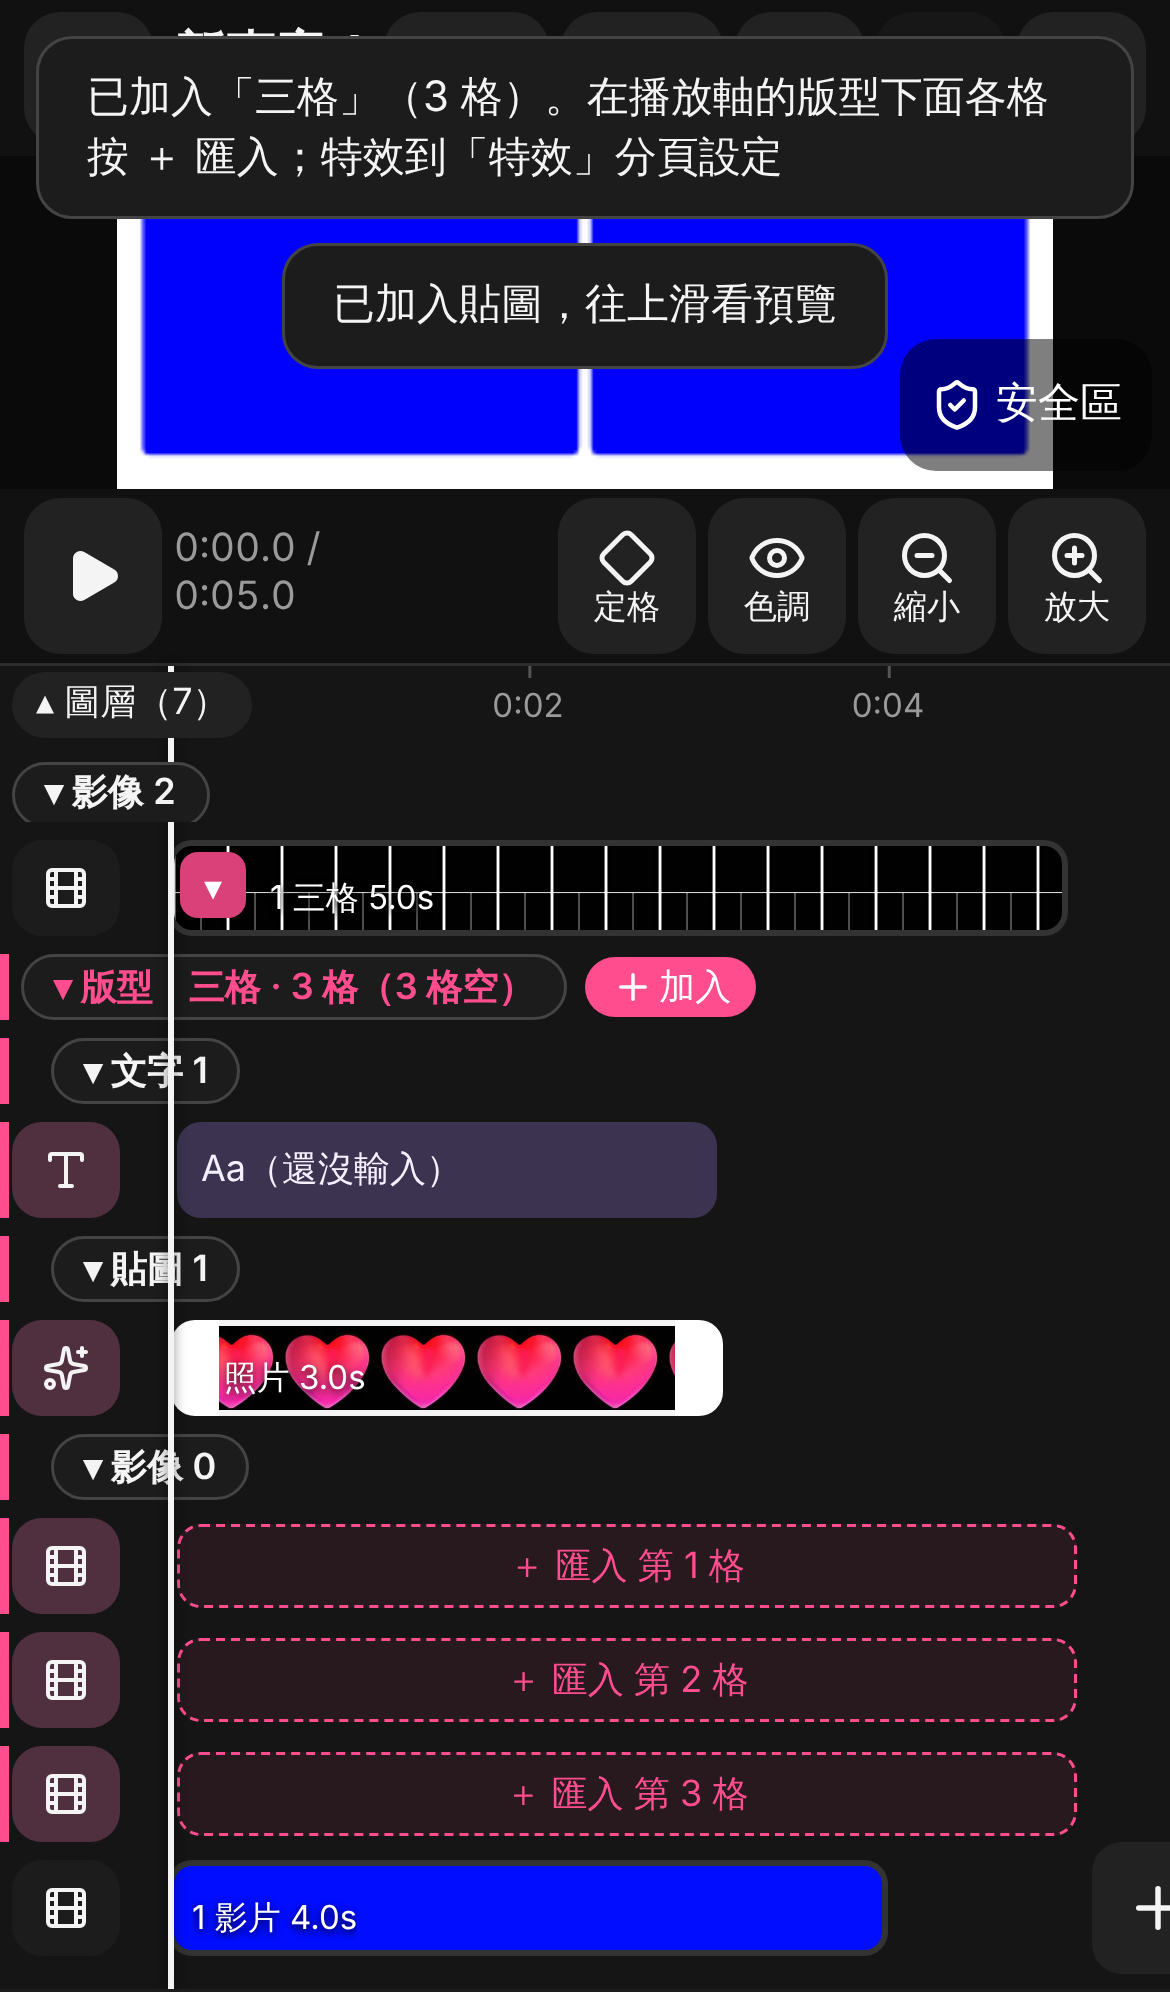
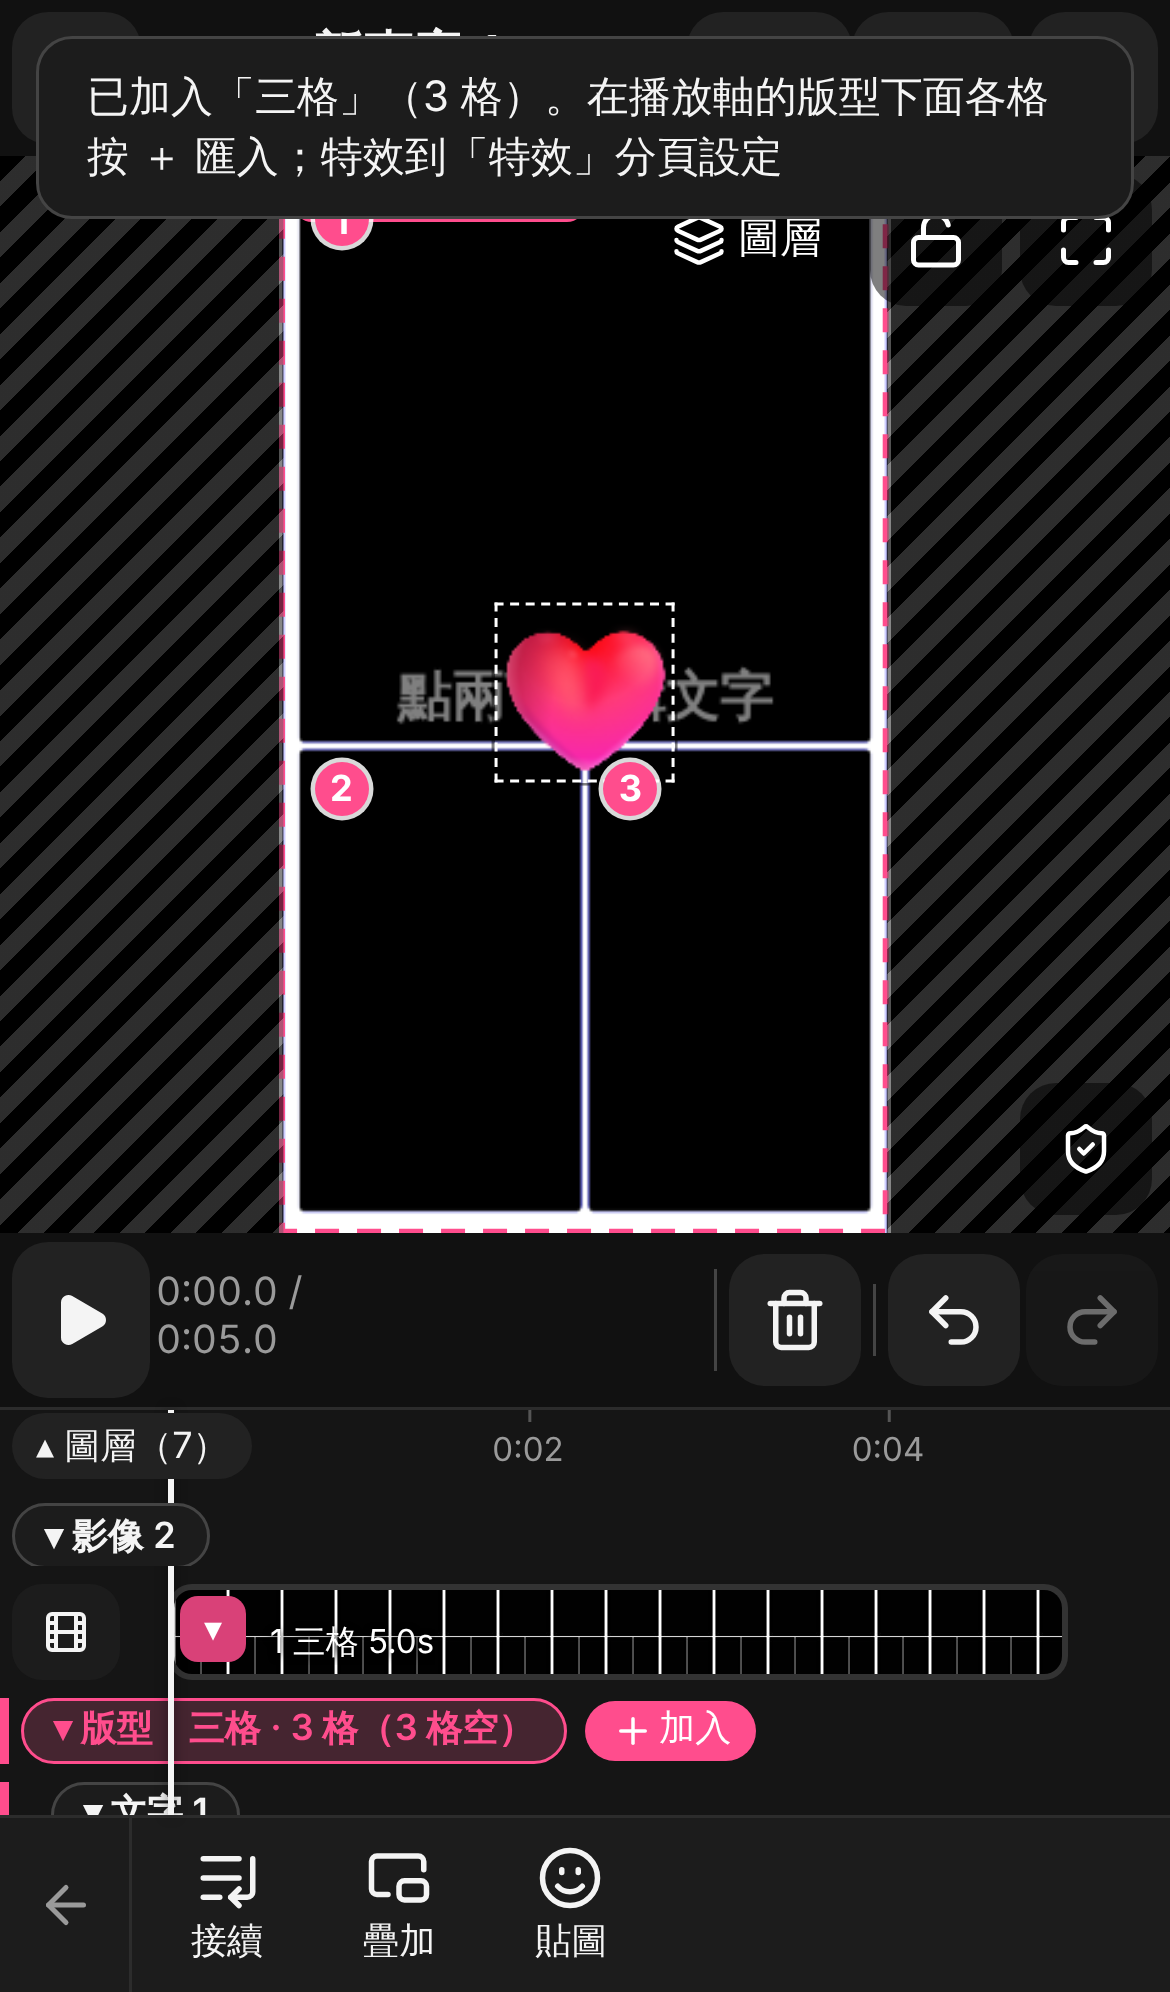
Z8: 〔加進版型〕作用在選到的文字／音樂（加進、移出），不再是「之後新增」的開關

diff --git a/src/app/editor/AddToGroupToggle.tsx b/src/app/editor/AddToGroupToggle.tsx
@@ -1,61 +1,42 @@
-import { Group } from 'lucide-react';
+import { Group, Ungroup } from 'lucide-react';
 import { ToolButton } from './tabs/shared';
+import { attachToGroup, detachFromGroup, groupToJoin } from '../../store/actions';
 import { useProjectStore } from '../../store/projectStore';
-import { useUI } from '../../store/uiStore';
+import { toast } from '../../store/uiStore';
 import { findItem } from '../../engine/timeline';
-import { frameOfGroup } from '../../engine/layoutTracks';
+import { isFrameItem } from '../../engine/layoutTracks';
 
 /**
- * 選到版型（或版型裡的東西）時，文字、素材（貼圖）、音訊分頁最上面的一列：新增的東西要不要加進這個版型。
- * 預設加進去（時間只能在版型範圍內、跟著整個版型動）；關掉＝照一般素材加在專案裡。
- * 用淡底的區塊跟下面的新增按鈕分開（不同層級的設定）。
+ * 文字、音訊工具列的〔加進版型〕：作用在目前選到的文字（音樂／音效）。
+ * 還不在版型裡：按了就加進這一段時間有的版型（跟著版型動、時間夾在版型範圍內）；已經在版型裡（按鈕亮著）：按了移出版型。
+ * 專案裡沒有版型時不顯示。
  */
-export function AddToGroupToggle({ what }: { what: string }) {
+export function GroupToggleButton({ testId }: { testId: string }) {
   const project = useProjectStore((s) => s.project);
   const selectedId = useProjectStore((s) => s.selectedId);
-  const off = useUI((s) => s.addToGroupOff);
-  const f = project && selectedId ? findItem(project, selectedId) : null;
-  const g = f?.item.group;
-  const frame = project && g ? frameOfGroup(project.tracks, g) : null;
-  if (!g || !frame) return null;
-  const on = !off;
-  return (
-    <div className="zone-soft" data-testid="add-to-group">
-      <button
-        role="switch"
-        aria-checked={on}
-        aria-label={`${what}加到版型「${frame.item.label ?? '版型'}」裡`}
-        className={`btn${on ? ' primary' : ''}`}
-        onClick={() => useUI.setState({ addToGroupOff: on })}
-      >
-        {on ? '✓ ' : ''}
-        {what}加到版型「{frame.item.label ?? '版型'}」裡
-      </button>
-    </div>
-  );
-}
-
-/**
- * 工具列上的〔加進版型〕開關：選到版型（或版型裡的東西）時才出現，跟〔新增〕放在一起——
- * 新增的文字、音樂要不要加進這個版型。開著＝強調色。
- */
-export function GroupToggleButton({ what }: { what: string }) {
-  const project = useProjectStore((s) => s.project);
-  const selectedId = useProjectStore((s) => s.selectedId);
-  const off = useUI((s) => s.addToGroupOff);
-  const f = project && selectedId ? findItem(project, selectedId) : null;
-  const g = f?.item.group;
-  const frame = project && g ? frameOfGroup(project.tracks, g) : null;
-  if (!g || !frame) return null;
-  const on = !off;
+  if (!project || !project.tracks.some((t) => t.items.some(isFrameItem))) return null;
+  const f = selectedId ? findItem(project, selectedId) : null;
+  const item = f && (f.item.type === 'text' || f.item.type === 'audio') ? f.item : null;
+  const inGroup = !!item && !!item.group && f!.track.groupRole === 'member';
+  const target = item ? groupToJoin(project, item) : null;
+  const dim = !item || (!inGroup && !target);
   return (
     <ToolButton
-      icon={Group}
-      label="加進版型"
-      ariaLabel={`${what}加到版型「${frame.item.label ?? '版型'}」裡`}
-      fill={on}
-      active={on}
-      onClick={() => useUI.setState({ addToGroupOff: on })}
+      icon={inGroup ? Ungroup : Group}
+      label={inGroup ? '移出版型' : '加進版型'}
+      testId={testId}
+      fill={inGroup}
+      active={inGroup}
+      dim={dim}
+      onClick={() => {
+        if (!item) return toast('先點一段文字或音樂');
+        if (inGroup) {
+          if (detachFromGroup(item.id)) toast('已移出版型');
+          return;
+        }
+        if (!target) return toast('這段的時間沒有版型');
+        if (attachToGroup(item.id, target)) toast('已加進版型');
+      }}
     />
   );
 }

diff --git a/src/store/actions.ts b/src/store/actions.ts
@@ -881,6 +881,72 @@ export function addGroupMember(group: string, item: Item): string | null {
   return item.id;
 }
 
+/**
+ * 這個物件可以加進哪個版型：時間有重疊的版型外框（沒有重疊＝不能加）；有好幾個取最上層（圖層順序最後）的那個。
+ * 已經在版型裡、或是格子上的色塊文字（onItem）回傳 null。
+ */
+export function groupToJoin(p: Project, item: Item): string | null {
+  if (item.group || (item.type === 'text' && item.onItem)) return null;
+  let found: string | null = null;
+  for (const t of p.tracks)
+    for (const x of t.items)
+      if (
+        isFrameItem(x) &&
+        x.group &&
+        x.start < item.start + item.duration - 1e-6 &&
+        item.start < x.start + x.duration - 1e-6
+      )
+        found = x.group;
+  return found;
+}
+
+/** 把選到的文字、貼圖、音效加進版型（搬到版型自己的成員軌，時間夾在版型範圍內，之後跟著版型動）。一步復原 */
+export function attachToGroup(itemId: string, group: string): boolean {
+  const p = store().project;
+  const f = p && findItem(p, itemId);
+  const span = p && groupSpan(p, group);
+  if (!p || !f || !span || f.item.group) return false;
+  const kind = trackKindOf(f.item, p.assets);
+  store().apply((d) => {
+    const from = d.tracks[f.trackIndex]!;
+    const idx = from.items.findIndex((x) => x.id === itemId);
+    if (idx < 0) return;
+    const it = from.items.splice(idx, 1)[0] as Item;
+    const start = Math.min(Math.max(it.start, span.start), Math.max(span.end - 0.2, span.start));
+    it.start = start;
+    it.duration = Math.max(Math.min(it.duration, span.end - start), 0.2);
+    it.group = group;
+    if (it.type !== 'text') (it as VideoItem).member = true;
+    if (from.items.length === 0 && !from.groupRole) {
+      const lastMedia =
+        from.kind === 'media' && d.tracks.filter((t) => t.kind === 'media' && !t.groupRole).length <= 1;
+      if (!lastMedia) d.tracks.splice(d.tracks.indexOf(from), 1);
+    }
+    memberTrackFor(d as { tracks: Track[] }, group, kind, it.start, it.duration).items.push(it as never);
+  });
+  return true;
+}
+
+/** 把版型裡的文字、貼圖、音效移出版型（搬到一般的軌道，位置、時間不變）。一步復原 */
+export function detachFromGroup(itemId: string): boolean {
+  const p = store().project;
+  const f = p && findItem(p, itemId);
+  if (!p || !f || !f.item.group || f.track.groupRole !== 'member') return false;
+  const kind = f.track.kind;
+  store().apply((d) => {
+    const from = d.tracks[f.trackIndex]!;
+    const idx = from.items.findIndex((x) => x.id === itemId);
+    if (idx < 0) return;
+    const it = from.items.splice(idx, 1)[0] as Item;
+    delete it.group;
+    if (it.type !== 'text') delete (it as VideoItem).member;
+    if (from.items.length === 0) d.tracks.splice(d.tracks.indexOf(from), 1);
+    const ti = trackIndexFor(d.tracks as Track[], kind, it.start, it.duration);
+    d.tracks[ti]!.items.push(it as never);
+  });
+  return true;
+}
+
 /** 版型成員的時間夾在版型範圍裡（拖移、修剪用）：回傳夾好的 start、duration */
 export function clampToGroup(
   p: Project,
@@ -1841,11 +1907,10 @@ export function setCellTrim(itemId: string, trimIn: number) {
 }
 
 /**
- * 現在選到的東西屬於哪個版型（外框、格子、版型裡的文字貼圖都算），而且使用者沒有在分頁裡關掉「加到版型裡」：
- * 新增文字、貼圖、音效就加進這個版型（成員軌、時間夾在版型範圍內）。沒有就是 null（照一般流程）。
+ * 現在選到的東西屬於哪個版型（外框、格子、版型裡的文字貼圖都算）：
+ * 新增文字、貼圖、音效就加進這個版型（成員軌、時間夾在版型範圍內；不要的話選到文字後按〔移出版型〕）。沒有就是 null（照一般流程）。
  */
 export function addTargetGroup(): string | null {
-  if (useUI.getState().addToGroupOff) return null;
   const p = store().project;
   const id = store().selectedId;
   const f = p && id ? findItem(p, id) : null;

diff --git a/src/store/groupMember.test.ts b/src/store/groupMember.test.ts
@@ -1,0 +1,83 @@
+import { createProject } from '../model/defaults';
+import type { Asset, Item, TextItem, Track, VideoItem } from '../model/types';
+import { addLayout, attachToGroup, detachFromGroup, groupToJoin } from './actions';
+import { useProjectStore } from './projectStore';
+
+const s = () => useProjectStore.getState();
+const asset = (id: string): Asset =>
+  ({ id, kind: 'image', name: id, width: 400, height: 300, duration: 0 }) as unknown as Asset;
+const textItem = (id: string, start: number, duration: number): TextItem =>
+  ({
+    id,
+    type: 'text',
+    start,
+    duration,
+    speed: 1,
+    transform: { x: 0.5, y: 0.5, scale: 1, rotation: 0, opacity: 1 },
+    card: { runs: [{ text: 'hi' }] },
+  }) as unknown as TextItem;
+
+function mk() {
+  s().load(createProject('測試'));
+  addLayout({
+    cells: [{ asset: asset('a'), win: { x: 10, y: 10, w: 100, h: 100 } }],
+    frame: asset('f'),
+    start: 1,
+    duration: 3,
+    frameName: '測試版型',
+  });
+  s().apply((d) => {
+    d.tracks.push({
+      id: 'tt',
+      kind: 'text',
+      name: '文字',
+      items: [textItem('t1', 2, 1), textItem('t2', 9, 1)],
+    } as Track);
+  });
+}
+const find = (id: string) =>
+  s()
+    .project!.tracks.flatMap((t) => t.items.map((i) => ({ i, t })))
+    .find((x) => x.i.id === id)!;
+
+describe('加進版型／移出版型（選到的文字）', () => {
+  beforeEach(mk);
+  it('groupToJoin：時間有重疊的版型才算；已經在版型裡的是 null', () => {
+    const p = s().project!;
+    expect(groupToJoin(p, find('t1').i as Item)).toBeTruthy();
+    expect(groupToJoin(p, find('t2').i as Item)).toBeNull(); // 9–10 秒沒有版型
+  });
+  it('attachToGroup：搬到版型的成員軌、時間夾在版型範圍內、原本空掉的文字軌拿掉；一步復原', () => {
+    const g = groupToJoin(s().project!, find('t1').i as Item)!;
+    expect(attachToGroup('t1', g)).toBe(true);
+    const x = find('t1');
+    expect(x.t.groupRole).toBe('member');
+    expect((x.i as VideoItem).group).toBe(g);
+    expect(x.i.start).toBeGreaterThanOrEqual(1);
+    expect(x.i.start + x.i.duration).toBeLessThanOrEqual(4 + 1e-6);
+    expect(
+      s()
+        .project!.tracks.find((t) => t.id === 'tt')!
+        .items.map((i) => i.id),
+    ).toEqual(['t2']);
+    s().undo();
+    expect(find('t1').t.id).toBe('tt');
+    expect((find('t1').i as VideoItem).group).toBeUndefined();
+  });
+  it('detachFromGroup：搬回一般軌道、時間不變、成員軌空了就拿掉；一步復原', () => {
+    const g = groupToJoin(s().project!, find('t1').i as Item)!;
+    attachToGroup('t1', g);
+    const start = find('t1').i.start;
+    expect(detachFromGroup('t1')).toBe(true);
+    const x = find('t1');
+    expect(x.t.groupRole).toBeUndefined();
+    expect((x.i as VideoItem).group).toBeUndefined();
+    expect(x.i.start).toBe(start);
+    expect(s().project!.tracks.filter((t) => t.groupRole === 'member')).toHaveLength(0);
+    s().undo();
+    expect(find('t1').t.groupRole).toBe('member');
+  });
+  it('不在版型裡的東西不能移出', () => {
+    expect(detachFromGroup('t1')).toBe(false);
+  });
+});

diff --git a/src/store/uiStore.ts b/src/store/uiStore.ts
@@ -27,7 +27,6 @@ type UI = {
   /** 自訂比例：預覽上正在拖版面的框（fx、fy＝框占 9:16 底的寬、高比例）；沒有＝沒在調 */
   frameEdit: { fx: number; fy: number; fill: boolean } | null;
   /** 選到版型（或版型裡的東西）時，新增文字／貼圖／音效預設加進那個版型；使用者在各分頁關掉＝這個旗標 true */
-  addToGroupOff: boolean;
   /** 調整版型大小：預覽上正在拖版型的邊（sx、sy＝相對於開始時的寬、高倍數）；沒有＝沒在調 */
   layoutEdit: { group: string; sx: number; sy: number } | null;
   /** 預覽上拖格子大小：cells＝草稿（每格佔畫面寬、高的比例，照格號順序） */
@@ -54,7 +53,6 @@ export const useUI = create<UI>((set, get) => ({
   timelinePps: 40,
   gradeScope: null,
   frameEdit: null,
-  addToGroupOff: false,
   layoutEdit: null,
   cellEdit: null,
   kineticEdit: null,

diff --git a/src/app/editor/tools.tsx b/src/app/editor/tools.tsx
@@ -413,7 +413,7 @@ export const TOOLS: Record<CatId, ToolDef[]> = {
       icon: Type,
       zone: 'add',
       kind: 'toggle',
-      custom: () => <GroupToggleButton what="新增的文字" />,
+      custom: () => <GroupToggleButton testId="tool-text.togroup" />,
     },
     {
       id: 'text.content',
@@ -755,7 +755,7 @@ export const TOOLS: Record<CatId, ToolDef[]> = {
       icon: Music,
       zone: 'add',
       kind: 'toggle',
-      custom: () => <GroupToggleButton what="新增的音樂／音效" />,
+      custom: () => <GroupToggleButton testId="tool-audio.togroup" />,
     },
     {
       id: 'audio.split',

diff --git a/src/app/editor/tabs/AssetsTab.tsx b/src/app/editor/tabs/AssetsTab.tsx
@@ -1,11 +1,9 @@
-import { AddToGroupToggle } from '../AddToGroupToggle';
 import { StickerPicker } from '../StickerPicker';
 
 /** 素材分頁：貼圖（內建、GIPHY、我的貼圖）；之後放畫畫 */
 export function AssetsTab() {
   return (
     <div className="panel">
-      <AddToGroupToggle what="新增的貼圖" />
       <div className="panel-head">
         <span>貼圖</span>
       </div>
